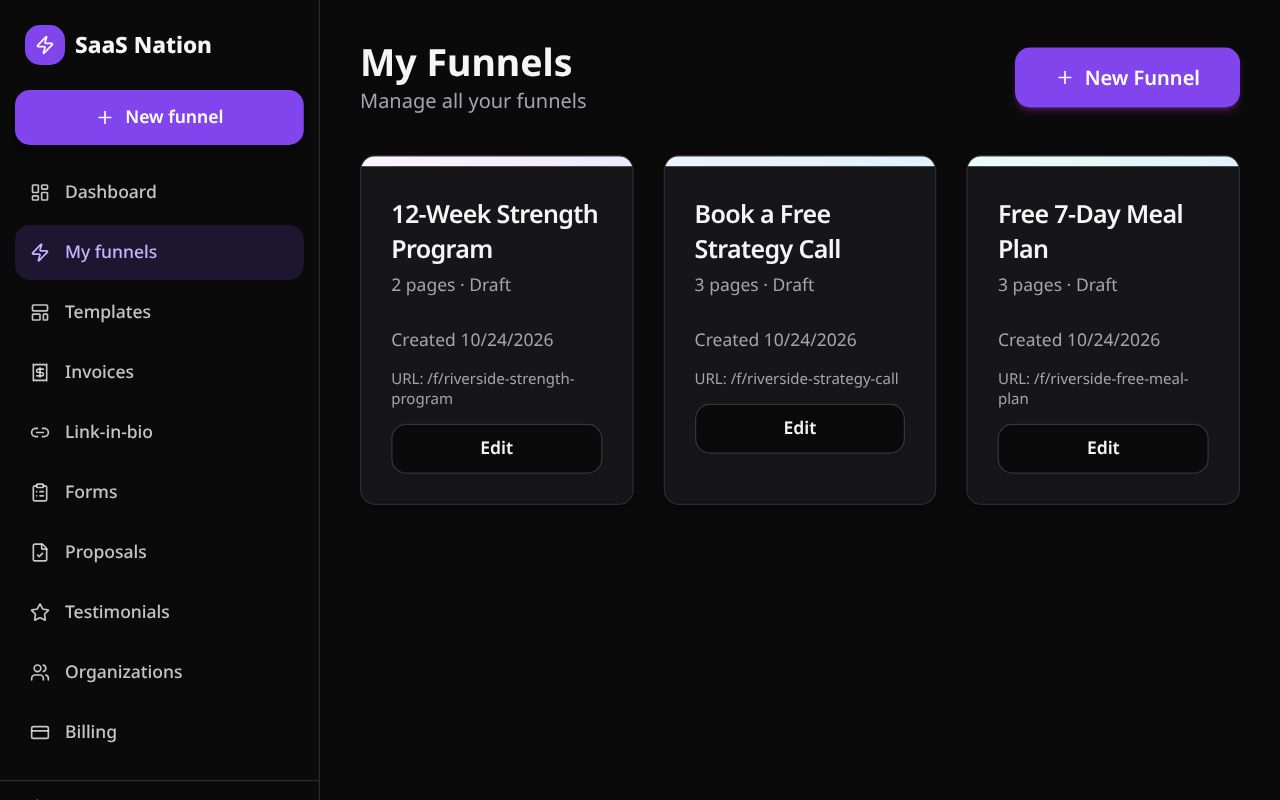
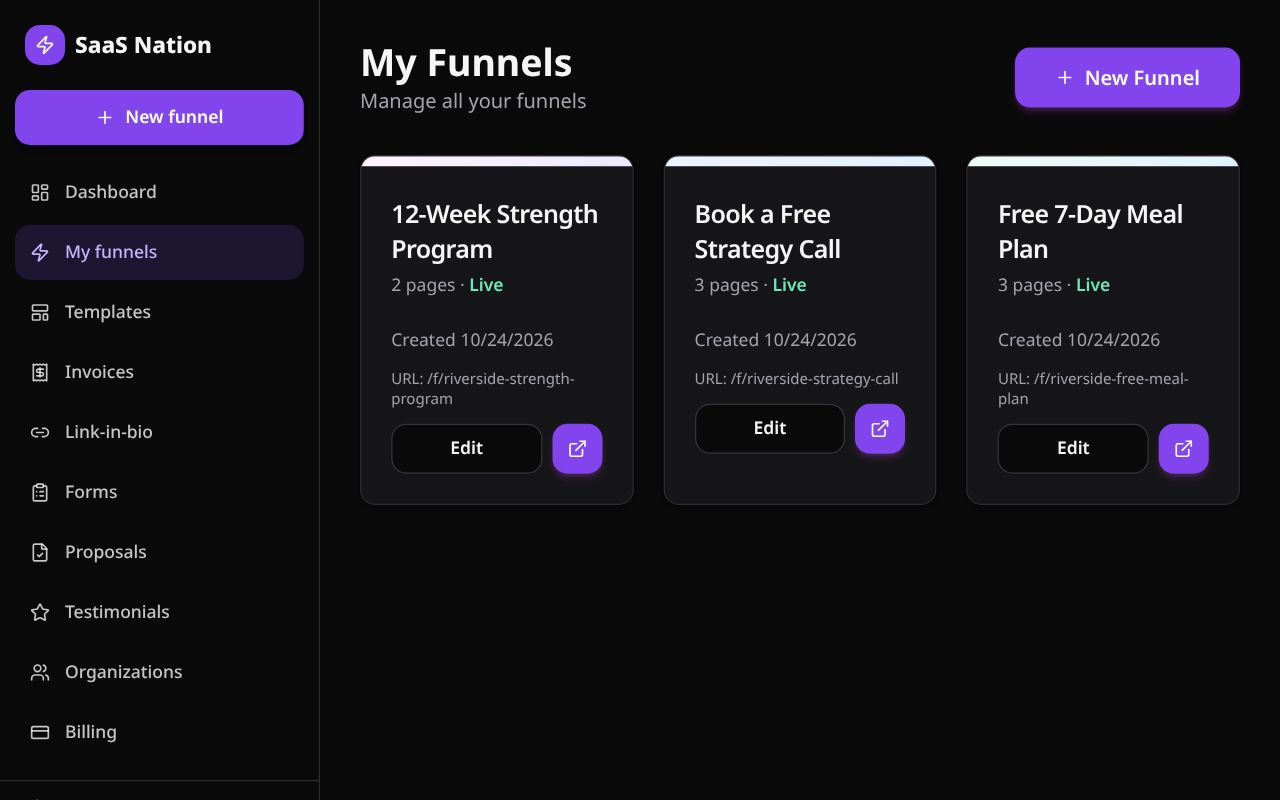
chore: demo funnels live in screenshot; hero 'See it' links to demo strategy-call funnel

diff --git a/app/page.tsx b/app/page.tsx
@@ -19,7 +19,7 @@ export default function Home() {
           colors={hero.showcase.colors}
           shot={hero.showcase.shot}
           primary={{ href: '/auth/register', label: 'Start building' }}
-          secondary={{ href: '/templates', label: 'See it' }}
+          secondary={{ href: '/f/riverside-strategy-call', label: 'See it' }}
         />
         <div id="tools" className="relative z-10 -mt-10 space-y-2 pb-16 sm:-mt-16">
           {HOME_ROWS.map((r) => (
